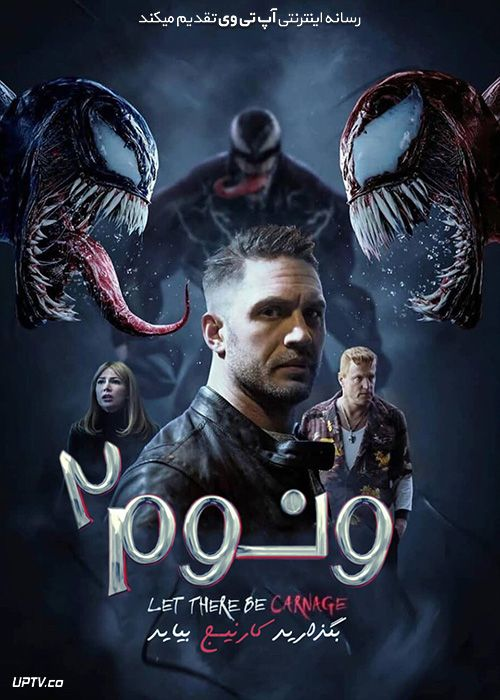
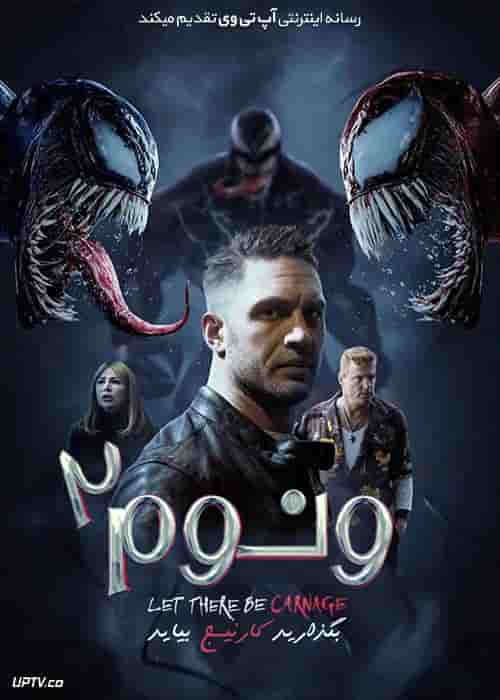
png convert jpg

diff --git a/index.html b/index.html
@@ -28,7 +28,7 @@
         <a href="#" class="btn">ادامه مطلب</a>
         </div>
         <div class="imgbx">
-    <img src="image/1 (2).png" class="newsbg">
+    <img src="image/1 (2).jpg" class="newsbg">
         </div>
 </section>
 <section class="destination">
@@ -39,7 +39,7 @@
        <div class="destinationlist">
         <div class="box">
           <div class="imgbx">
-             <img src="image/وونووم.png" class="newsbg">
+             <img src="image/وونووم.jpg" class="newsbg">
               </div>
               <div class="content">
                   <h2>مدت زمان ونوم 2 مشخص شد <br><span></span> </h2>
@@ -47,7 +47,7 @@
               </div>
               <div class="box">
                 <div class="imgbx">
-                 <a href="spidey.html">  <img src="image/ونوم.png" class="newsbg"></a>
+                 <a href="spidey.html">  <img src="image/ونوم.jpg" class="newsbg"></a>
                     </div>
                     <div class="content">
                         <h2>رکورد شکنی تریلر مرد عنکبوتی3<br><span></span></h2>
@@ -55,7 +55,7 @@
                     </div>
                     <div class="box">
                         <div class="imgbx">
-                           <img src="image/اترنالز.png" class="newsbg">
+                           <img src="image/اترنالز.jpg" class="newsbg">
                             </div>
                             <div class="content">
                                 <h2>نحوه پخش فیلم جاودانگان مشخص شد<br><span></span> </h2>
@@ -82,7 +82,7 @@
                <div class="destinationlist">
                 <div class="box">
                   <div class="imgbx">
-                     <img src="image/روز به شب.PNG" class="newsbg">
+                     <img src="image/روز به شب.jpg" class="newsbg">
                       </div>
                       <div class="content">
                           <h2>آموزش تبدیل روز به شب<br><span></span> </h2>
@@ -90,7 +90,7 @@
                       </div>
                       <div class="box">
                         <div class="imgbx">
-                         <a href="">  <img src="image/خانه ساده.PNG" class="newsbg"></a>
+                         <a href="">  <img src="image/خانه ساده.jpg" class="newsbg"></a>
                             </div>
                             <div class="content">
                                 <h2>آموزش ساخت مدل سه بعدی خانه<br><span></span></h2>
@@ -98,7 +98,7 @@
                             </div>
                             <div class="box">
                                 <div class="imgbx">
-                                   <img src="image/موزیک ویدیو.PNG" class="newsbg">
+                                   <img src="image/موزیک ویدیو.jpg" class="newsbg">
                                     </div>
                                     <div class="content">
                                         <h2>آموزش ساخت موزیک ویدیو<br><span></span> </h2>
@@ -109,9 +109,9 @@
                 </section>
         <section class="footer">
     <ul class="sci">
-        <li><a href="#"><img src="image/اینستاگرام.png"></a></li>
-        <li><a href="#"><img src="image/سروش.png"></a></li>
-        <li><a href="#"><img src="image/ایتا.png"></a></li>
+        <li><a href="#"><img src="image/اینستاگرام.jpg"></a></li>
+        <li><a href="#"><img src="image/سروش.jpg"></a></li>
+        <li><a href="#"><img src="image/ایتا.jpg"></a></li>
         </ul>
         <h4 class="texteski">تمامی حقوق برای <a href="index.html">مورک فیلم</a> محفوظ است</h4>
 </section>

diff --git a/spidey.html b/spidey.html
@@ -15,13 +15,13 @@
             <li><a href="call.html">تماس با ما</a></li>
     </ul
         <br><br><br><br><br><br><br><br><br>     <h1 class="titre">تریلر فیلم مرد عنکبوتی راهی به خانه نیست رکورد بازدید در یک روز را شکست</h1><br>
-       <center><img src="image/پیتر.PNG" class="imgphoto"><br><br>
+       <center><img src="image/پیتر.jpg" class="imgphoto"><br><br>
         <h2 class="text">بامداد سه شنبه بود که سرانجام مارول استودیو و سونی اولین تریلر فیلم مرد عنکبوتی 3 را منتشر کردند و این تریلر یک رکورد تاریخی را ثبت کرده است اولین تریلر فیلم مرد عنکبوتی راهی به خانه نیست رکورد تعداد تماشا یک تریلر در ۲۴ ساعت اول انتشار را شکست این تریلر در روز اول انتشار بیش از ۳۵۵/۵ میلیون بار تماشا شده است این رکورد قبلا با 289 میلیون بار تماشا متعلق به فیلم انتقام جویان پایان بازی بود</h2>
          <br><br><center><img src="image/sony-pictures-spiderman-far-from-home.jpg" class="imgphoto"><br><br>
         <h2 class="text">این تریلر بیشتر موفقیت های خود رامدیون طولانی شدن زمان انتشار و همچنین تئوری ها و شایعه پراکنی طرفداران است و البته که خود تریلر هم هیجان زیادی برای طرفداران ایجاد کرد و همه را نسبت به این فیلم کنجکاو تر کرد اولین تریلر فیلم مرد عنکبوتی 3 همچنین در شبکههای اجتماعی رکورد پر بحثترین تریلر در اولین روز انتشار را شکسته است. طبق آمار منتشر شده، بیش از ۴/۵ میلیون بار به تریلر این فیلم اشاره شده تا رکورد قبلی را که به فیلم انتقام جویان پایان بازی با ۲/۹۱ میلیون بار اشاره تعلق داشت بشکنداولین تریلر فیلم مرد عنکبوتی راهی به خانه نیست نیز در اولین روز انتشار به آن ۱/۵ میلیون بار در شبکههای اجتماعی اشاره شده بود </h2>
-        <br><br><center><img src="image/FD.PNG" class="imgphoto"><br><br>
+        <br><br><center><img src="image/FD.jpg" class="imgphoto"><br><br>
             <h2 class="text">فیلم مرد عنکبوتی راهی به خانه نیست برای اکران در تاریخ 17 دسامبر 2021 (26 آذر 1400) برنامهریزی شده است مانند دو قسمت گذشته، جان واتس وظیفه کارگردانی و کریس مککنا و اریک سامرز وظیفه نوشتن فیلمنامه بر عهده داشتهاند تام هالند در نقش پیتر پارکر، جیمی فاکس در نقش الکترو، زندیا در نقش ام جی، بندیکت کامبربچ در نقش دکتر استرنج، آلفرد مولینا در نقش دکتر اوختاپوس ، جیکوب باتالون در نقش ند، مریسا تومی در نقش زن عمو می و جی کی سیمونز در نقش جی جونا جیمسون از جمله بازیگرانی هستند که در فیلم مردعنکبوتی3 حضور دارند و به ایفای نقش پرداختهاند</h2> 
-            <br><br><center><img src="image/DDD.PNG" class="imgphoto"><br><br>
+            <br><br><center><img src="image/DDD.jpg" class="imgphoto"><br><br>
         </body>
 
 

diff --git a/news.html b/news.html
@@ -24,7 +24,7 @@
                     <div class="box">
                       <div class="imgbx">
                     
-                     <a href=""> <img src="image/وونووم.png" class="newsbg"></a>   
+                     <a href=""> <img src="image/وونووم.jpg" class="newsbg"></a>   
                           </div>
                           <div class="content">
                               <h2 >مدت زمان ونوم 2 مشخص شد </h2>
@@ -32,7 +32,7 @@
                           </div>
                           <div class="box">
                             <div class="imgbx">
-                               <a href="spidey.html"><img src="image/ونوم.png" class="newsbg"></a>
+                               <a href="spidey.html"><img src="image/ونوم.jpg" class="newsbg"></a>
                                 </div>
                                 <div class="content">
                                     <h2>رکورد شکنی تریلر مرد عنکبوتی3<br><a></a></h2>
@@ -40,7 +40,7 @@
                                 </div>
                                 <div class="box">
                                     <div class="imgbx">
-                                      <a href=""><img src="image/اترنالز.png" class="newsbg"></a> 
+                                      <a href=""><img src="image/اترنالز.jpg" class="newsbg"></a> 
                                         </div>
                                         <div class="content">
                    <h2>نحوه پخش فیلم جاودانگان مشخص شد<br><span></span> </h2>
